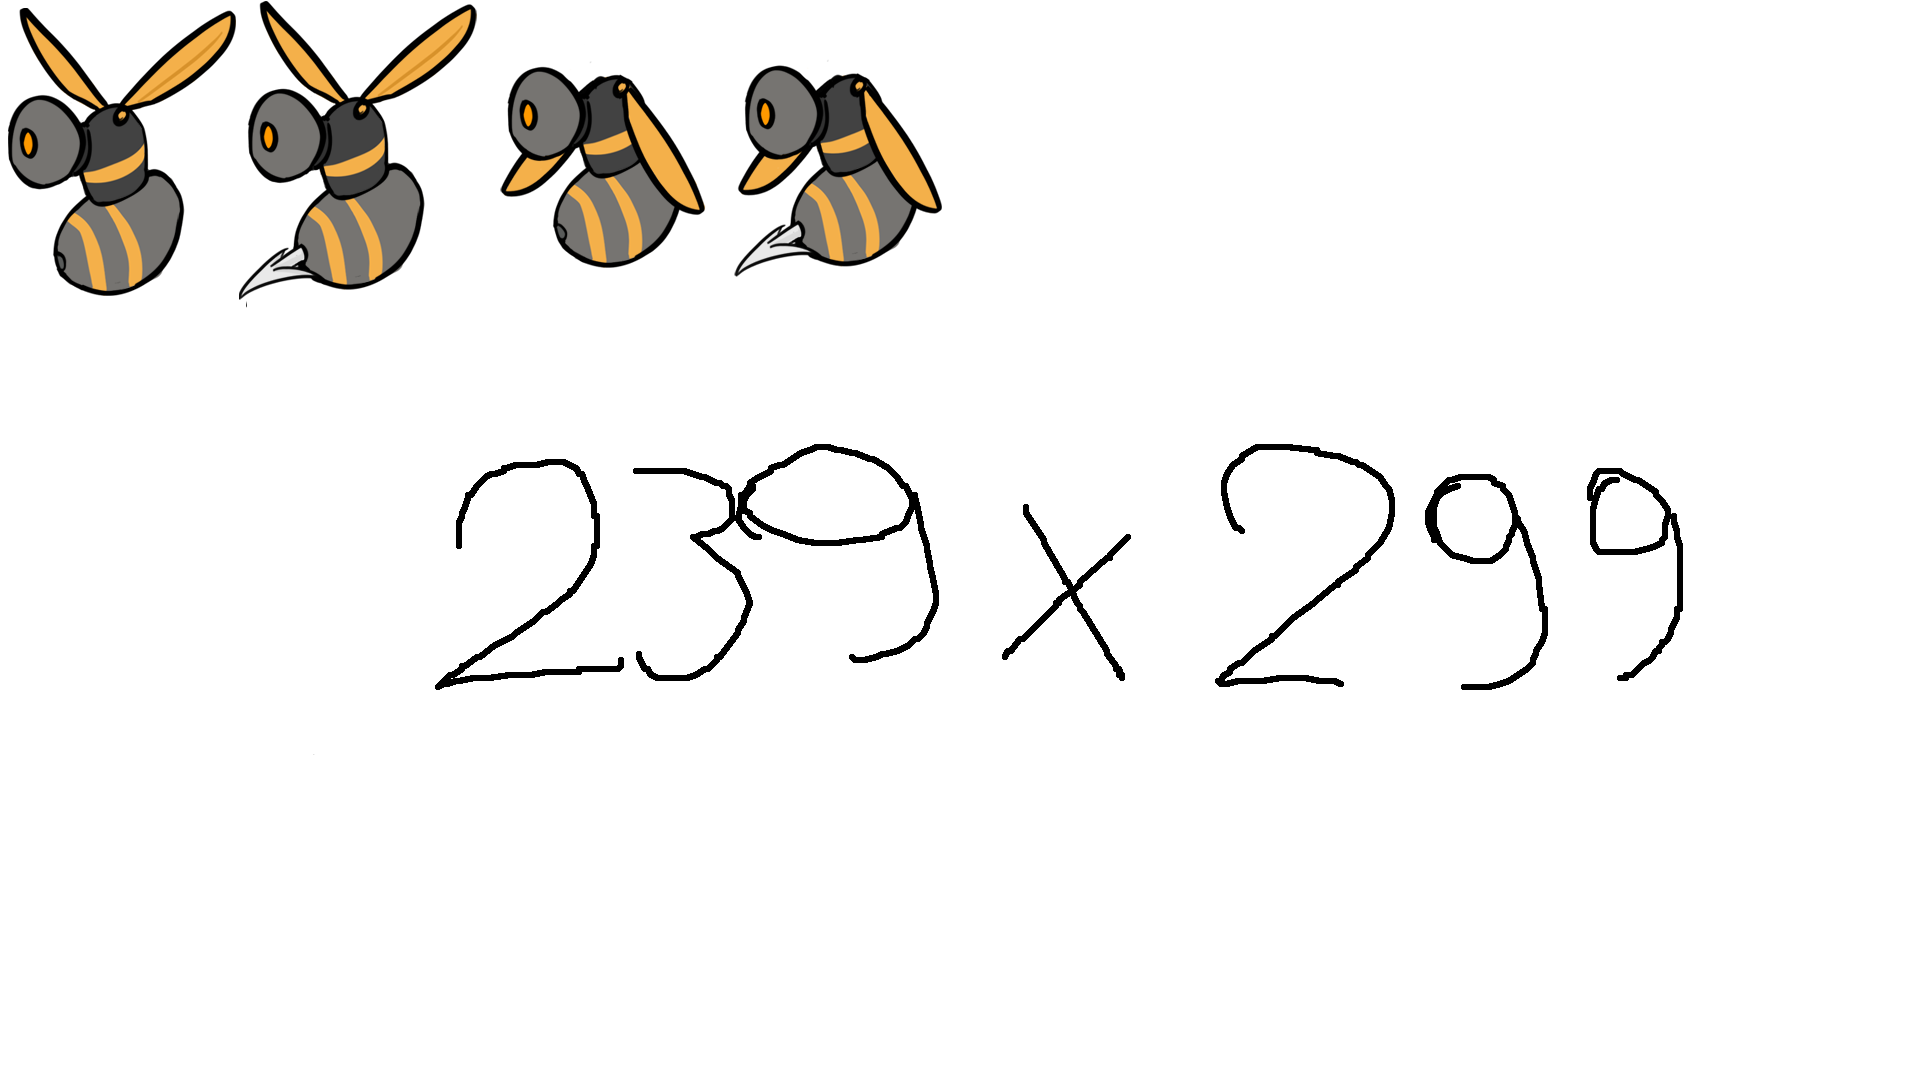
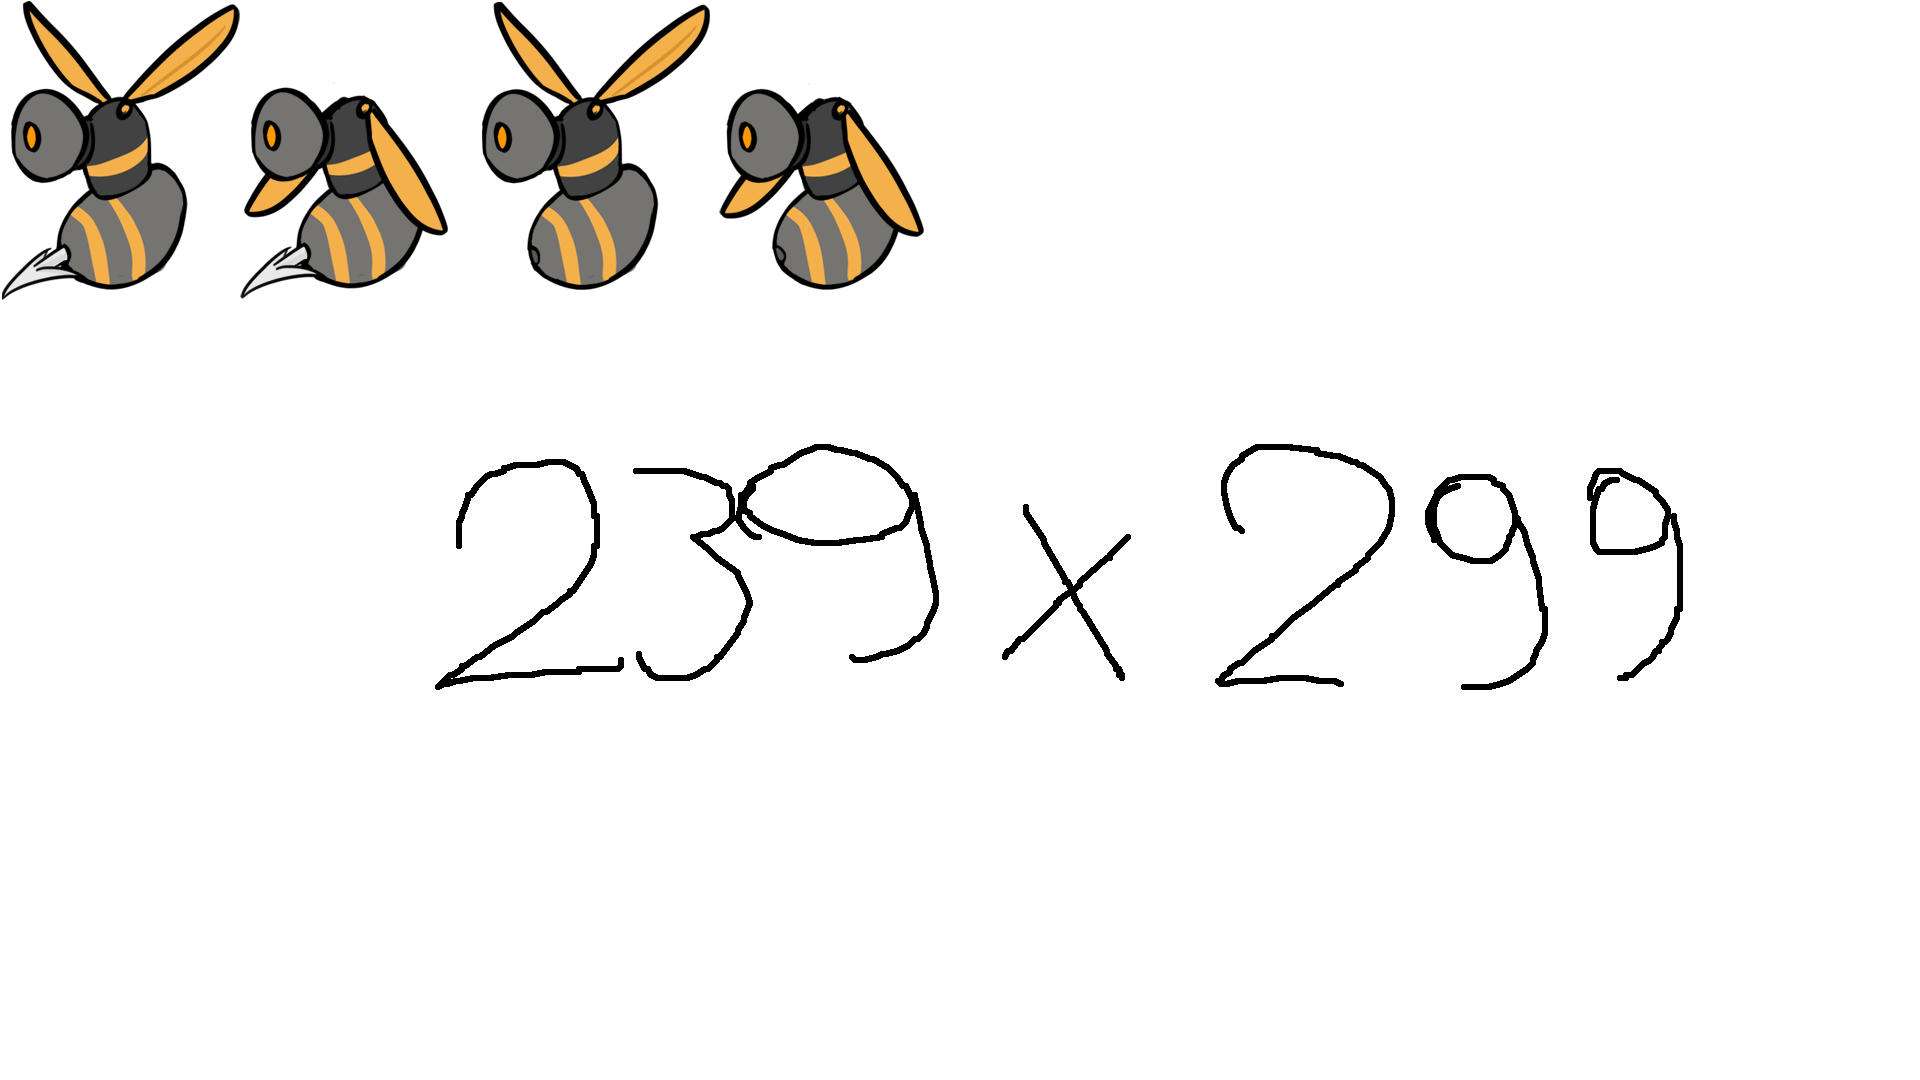
POUCHE

Changed region(s): [[0.0, 0.0, 0.5, 0.275]]

diff --git a/projet-mini-studio/scr/EntityManager.cpp b/projet-mini-studio/scr/EntityManager.cpp
@@ -36,8 +36,8 @@ void EntityManager::createEntity(string type, Vector2f position, const Vector2f&
 		enemyVector.push_back(chargingBoss);
 	}
 	if (type == "Checkpoint") {
-		std::shared_ptr<Checkpoint> testCheckpoint = std::make_shared<Checkpoint>(size, color, map);
-		//testCheckpoint->getSprite().setPosition(position);
+		std::shared_ptr<Checkpoint> testCheckpoint = std::make_shared<Checkpoint>(textureManager.checkpointTexture);
+		testCheckpoint->getSprite().setPosition(position);
 		testCheckpoint->setTexture(textureManager.checkpointTexture, 134, 136, 4, 0.1f);
 		checkpointVector.push_back(testCheckpoint);
 	}
@@ -48,8 +48,9 @@ void EntityManager::createEntity(string type, Vector2f position, const Vector2f&
 	}
 
 	if (type == "FlyingBoss") {
-		std::shared_ptr<FlyingBoss> flyingBoss = make_shared<FlyingBoss>(size, color, map);
+		std::shared_ptr<FlyingBoss> flyingBoss = make_shared<FlyingBoss>(map);
 		flyingBoss->getSprite().setPosition(position);
+		flyingBoss->setTexture(textureManager.eBoss2Texture, 240, 299, 2, 0.1f);
 		enemyVector.push_back(flyingBoss);
 	}
 
@@ -57,6 +58,7 @@ void EntityManager::createEntity(string type, Vector2f position, const Vector2f&
 	{
 		std::shared_ptr<FinalBoss> finalBoss = make_shared<FinalBoss>(size, color, map);
 		finalBoss->getSprite().setPosition(position);
+		//finalBoss->setTexture(textureManager.eBoss3Texture,);
 		enemyVector.push_back(finalBoss);
 	}
 }
@@ -167,6 +169,7 @@ void EntityManager::updateEntities(Event& event, float dt, /* Player& player1,*/
 	player->animate(dt);
 	for (auto& enemy : enemyVector) {
 		enemy->update(dt, *player, window);
+		enemy->animate(dt);
 		/*if (enemy->hp <= 0) {
 			enemy->toBeDeleted;
 			player->killCount++;

diff --git a/projet-mini-studio/scr/Map.cpp b/projet-mini-studio/scr/Map.cpp
@@ -63,6 +63,14 @@ int enemyTypeToInt(const string& type) {
         return 3;
     else if (type == "ChargingBoss")
         return 4;
+    else if (type == "FlyingBoss")
+        return 5;
+    else if (type == "FinalBoss")
+        return 6;
+    else if (type == "Checkpoint")
+        return 7;
+    else if (type == "HeartItem")
+        return 8;
     return 0;
 }
 
@@ -72,8 +80,10 @@ string intToEnemyType(int value) {
     case 2: return "RangedEnemy";
     case 3: return "BasicEnemy";
     case 4: return "ChargingBoss";
-    case 5: return "Checkpoint";
-    case 6: return "HeartItem";
+    case 5: return "FlyingBoss";
+    case 6: return "FinalBoss";
+    case 7: return "Checkpoint";
+    case 8: return "HeartItem";
     default: return "";
     }
 }
@@ -228,6 +238,7 @@ void Map::handleEnemyPlacement(RenderWindow& window, int x, int y, EnemyType ene
         case EnemyType::Basic:        typeStr = "BasicEnemy";  break;
         case EnemyType::ChargingBoss: typeStr = "ChargingBoss"; break;
         case EnemyType::FlyingBoss:   typeStr = "FlyingBoss"; break;
+        case EnemyType::FinalBoss:    typeStr = "FinalBoss"; break;
         case EnemyType::Checkpoint:   typeStr = "Checkpoint"; break;
         case EnemyType::HeartItem:    typeStr = "HeartItem"; break;
         default:                      typeStr = "EnemyFlying"; break;

diff --git a/projet-mini-studio/scr/ChargingBoss.cpp b/projet-mini-studio/scr/ChargingBoss.cpp
@@ -1,16 +1,16 @@
 #include "../include/ChargingBoss.hpp"
 
-ChargingBoss::ChargingBoss(Map& map, Texture& texture) : Enemy(map, texture) {
+ChargingBoss::ChargingBoss(Map& map) : Enemy(map) {
 
 	hp = 15;
 	type = "ChargingBoss";
-	Texture texture;
-	texture.create(100, 195);
+	Texture wallCollideTexture;
+	wallCollideTexture.create(100, 195);
 	Image image;
 	image.create(100, 195, Color::Red);
-	texture.update(image);
-	wallCollideSprite.setTexture(texture);
-	wallCollideSprite.setOrigin(texture.getSize().x / 2, texture.getSize().y / 2);
+	wallCollideTexture.update(image);
+	wallCollideSprite.setTexture(wallCollideTexture);
+	wallCollideSprite.setOrigin(wallCollideTexture.getSize().x / 2, wallCollideTexture.getSize().y / 2);
 }
 
 ChargingBoss::ChargingBoss(const Vector2f& size, const Color& color, Map& map) : Enemy(size, color, map) {
@@ -20,7 +20,6 @@ ChargingBoss::ChargingBoss(const Vector2f& size, const Color& color, Map& map) :
 
 
 void ChargingBoss::update(float dt, Player& player, RenderWindow& window) {
-	window.draw(wallCollideSprite);
 	invincibilityAfterHit(dt);
 	target = player.getSprite().getPosition();
 	distancePlayer = std::sqrt(pow(target.x - getSprite().getPosition().x, 2) + pow(target.y - getSprite().getPosition().y, 2));

diff --git a/projet-mini-studio/scr/Game.cpp b/projet-mini-studio/scr/Game.cpp
@@ -267,7 +267,6 @@ void Game::run() {
             case GameState::Playing:
                 if (!enemiesGenerated) {
                     entityManager.generateEnemies(map);
-                    entityManager.createEntity("FinalBoss", Vector2f(1200, 1700), Vector2f(150, 150), Color::Green, map);
                     enemiesGenerated = true;
                 }
 
@@ -411,7 +410,7 @@ void Game::run() {
                 if (event.type == Event::MouseButtonPressed && event.mouseButton.button == Mouse::Left) {
                     if (selector.level1Sprite.getGlobalBounds().contains(window.mapPixelToCoords(Mouse::getPosition(window)))) {
                          cutsceneCooldown.restart();
-                        currentState = GameState::Cutscene;
+                        currentState = GameState::Playing;
                         soundManager.stopSound("MenuMusic");
                         soundManager.playSound("cutscene2");
                     }
@@ -509,7 +508,7 @@ void Game::run() {
             selector.draw(window);
             break;
         case GameState::Cutscene:
-            //cutscene.draw3(window);
+            cutscene.draw3(window);
             break;
         case GameState::GameOver:
             break;

diff --git a/projet-mini-studio/scr/FlyingBoss.cpp b/projet-mini-studio/scr/FlyingBoss.cpp
@@ -1,6 +1,6 @@
 #include "../include/FlyingBoss.hpp"
 
-FlyingBoss::FlyingBoss(Map& map, Texture& texture) : Enemy(map, texture)
+FlyingBoss::FlyingBoss(Map& map) : Enemy(map)
 {
 	this->attackCooldown = 0.3f;
 	this->attackTimer = 0.0f;
@@ -28,7 +28,7 @@ FlyingBoss::~FlyingBoss()
 
 void FlyingBoss::update(float dt, Player& player, RenderWindow& window)
 {
-	
+	invincibilityAfterHit(dt);
 	if (this->state == IN_AIR)
 	{
 		this->groundTimer += dt;
@@ -173,5 +173,16 @@ void FlyingBoss::drawProjectiles(RenderWindow& window)
 	for (const auto& projectile : projectiles) 
 	{
 		projectile->draw(window);
+	}
+}
+
+void FlyingBoss::animate(float deltaTime) {
+	elapsedTime += deltaTime;
+	if (elapsedTime >= frameTime && !frames.empty()) {
+		elapsedTime = 0.0f;
+
+		currentFrame = (currentFrame + 1) % totalFrames;
+
+		getSprite().setTextureRect(frames[currentFrame]);
 	}
 }

diff --git a/projet-mini-studio/scr/TextureManager.cpp b/projet-mini-studio/scr/TextureManager.cpp
@@ -8,12 +8,11 @@ TextureManager::TextureManager()
 	eBasicTexture.loadFromFile("assets/enemy/basic_enemy.png");
 	eFlyingTexture.loadFromFile("assets/enemy/flying_enemy.png");
 	eRangedTexture.loadFromFile("assets/enemy/ranged_enemy.png");
-	//eBoss1Texture.loadFromFile("assets/enemy/boss1.png");
-	eBoss2Texture.loadFromFile("assets/enemy/boss2.png");
+	chargingBossTexture.loadFromFile("assets/animation/charging boss/charging boss.png");
+	eBoss2Texture.loadFromFile("assets/animation/enemies/boss2.png");
 	//eBoss3Texture.loadFromFile("assets/enemy/boss3.png");
 	rangedProjectileTexture.loadFromFile("assets/enemy/ranged_proj.png");
 	//boss2ProjectileTexture.loadFromFile("assets/enemy/boss2_proj.png");
 	//boss3ProjectileTexture.loadFromFile("assets/enemy/boss3_proj.png");
-	chargingBossTexture.loadFromFile("assets/animation/charging boss/charging boss.png");
 
 }

diff --git a/projet-mini-studio/include/TextureManager.hpp b/projet-mini-studio/include/TextureManager.hpp
@@ -13,14 +13,13 @@ public:
 	Texture eBasicTexture;
 	Texture eFlyingTexture;
 	Texture eRangedTexture;
-	Texture eBoss1Texture;
+	Texture chargingBossTexture;
 	Texture eBoss2Texture;
 	Texture eBoss3Texture;
 	Texture rangedProjectileTexture;
 	Texture boss2ProjectileTexture;
 	Texture boss3ProjectileTexture;
 
-	Texture chargingBossTexture;
 
 	TextureManager();
 };

diff --git a/projet-mini-studio/include/Enemy.hpp b/projet-mini-studio/include/Enemy.hpp
@@ -15,7 +15,7 @@ protected:
 public:
     Enemy(Map& map, Texture& texture);
     Enemy(const Vector2f& size, const Color& color, Map& map);
-    Enemy(Texture& texture, Map& map);
+    Enemy(Map& map);
     virtual ~Enemy();
     virtual void update(float dt, Player& player, RenderWindow& window);
     virtual void isColliding(int x, int y, float dt);

diff --git a/projet-mini-studio/include/FlyingBoss.hpp b/projet-mini-studio/include/FlyingBoss.hpp
@@ -22,10 +22,11 @@ private:
 	} state; 
 
 public:
-	FlyingBoss(Map& map, Texture& texture);
+	FlyingBoss(Map& map);
 	FlyingBoss(const Vector2f& size, const Color& color, Map& map);
 	~FlyingBoss();
 	void update(float dt, Player& player, RenderWindow& window) override;
+	void animate(float deltaTime) override;
 
 
 private:

diff --git a/projet-mini-studio/include/ChargingBoss.hpp b/projet-mini-studio/include/ChargingBoss.hpp
@@ -23,7 +23,7 @@ public:
 	std::vector<float> dashTimingVector = { 0.5, 0.75, 1, 1.25, 1.5, 1.25, 1.5 };
 	float dashTiming = 0;
 
-	ChargingBoss(Map& map, Texture& texture);
+	ChargingBoss(Map& map);
 	ChargingBoss(const Vector2f& size, const Color& color, Map& map);
 
 	//void draw(RenderWindow& window) override;

diff --git a/projet-mini-studio/scr/Enemy.cpp b/projet-mini-studio/scr/Enemy.cpp
@@ -18,8 +18,8 @@ Enemy::Enemy(const Vector2f& size, const Color& color, Map& map) : Entity(size, 
 	velocity = Vector2f(0, 0);
 }
 
-Enemy::Enemy(Texture& texture, Map& map)
-    : Entity(texture), map(map)
+Enemy::Enemy(Map& map)
+    :  map(map)
 {
     this->map = map;
     speed = 200;

diff --git a/projet-mini-studio/scr/EnemySelector.cpp b/projet-mini-studio/scr/EnemySelector.cpp
@@ -22,6 +22,7 @@ EnemySelector::EnemySelector(const string& texturePath, int iconSize)
         EnemyType::Basic,
         EnemyType::ChargingBoss,
         EnemyType::FlyingBoss,
+        EnemyType::FinalBoss,
         EnemyType::Checkpoint,
         EnemyType::HeartItem
 
